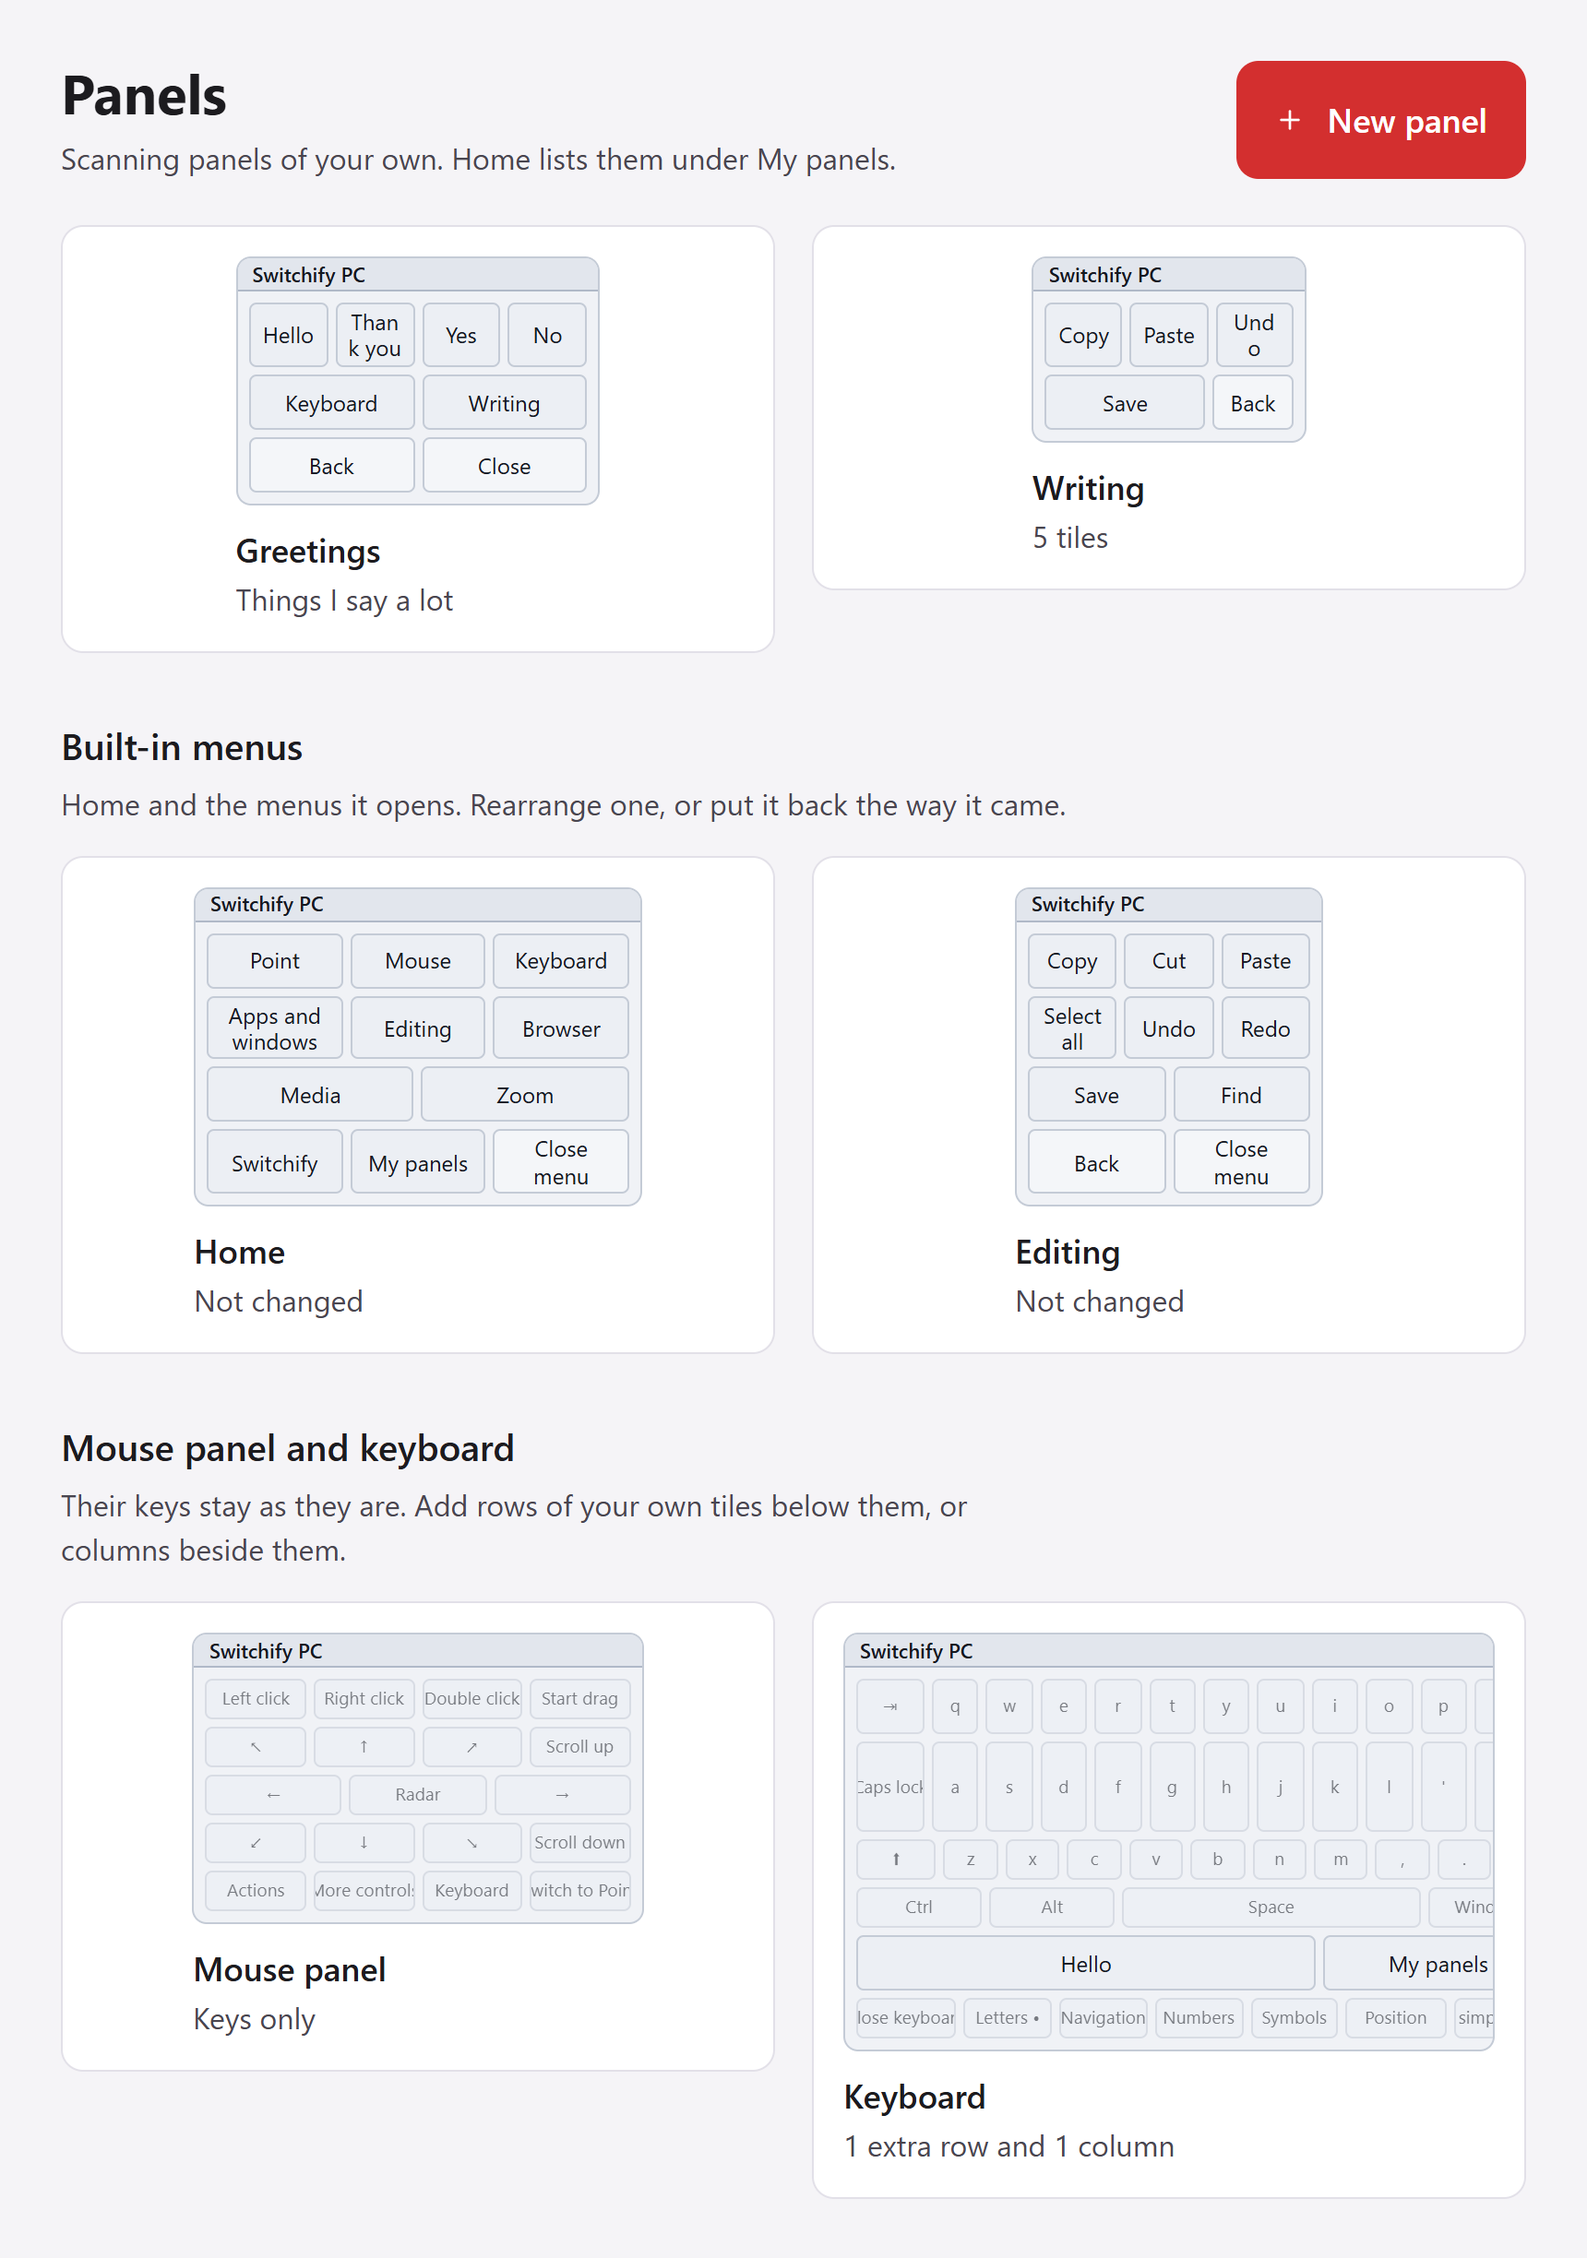
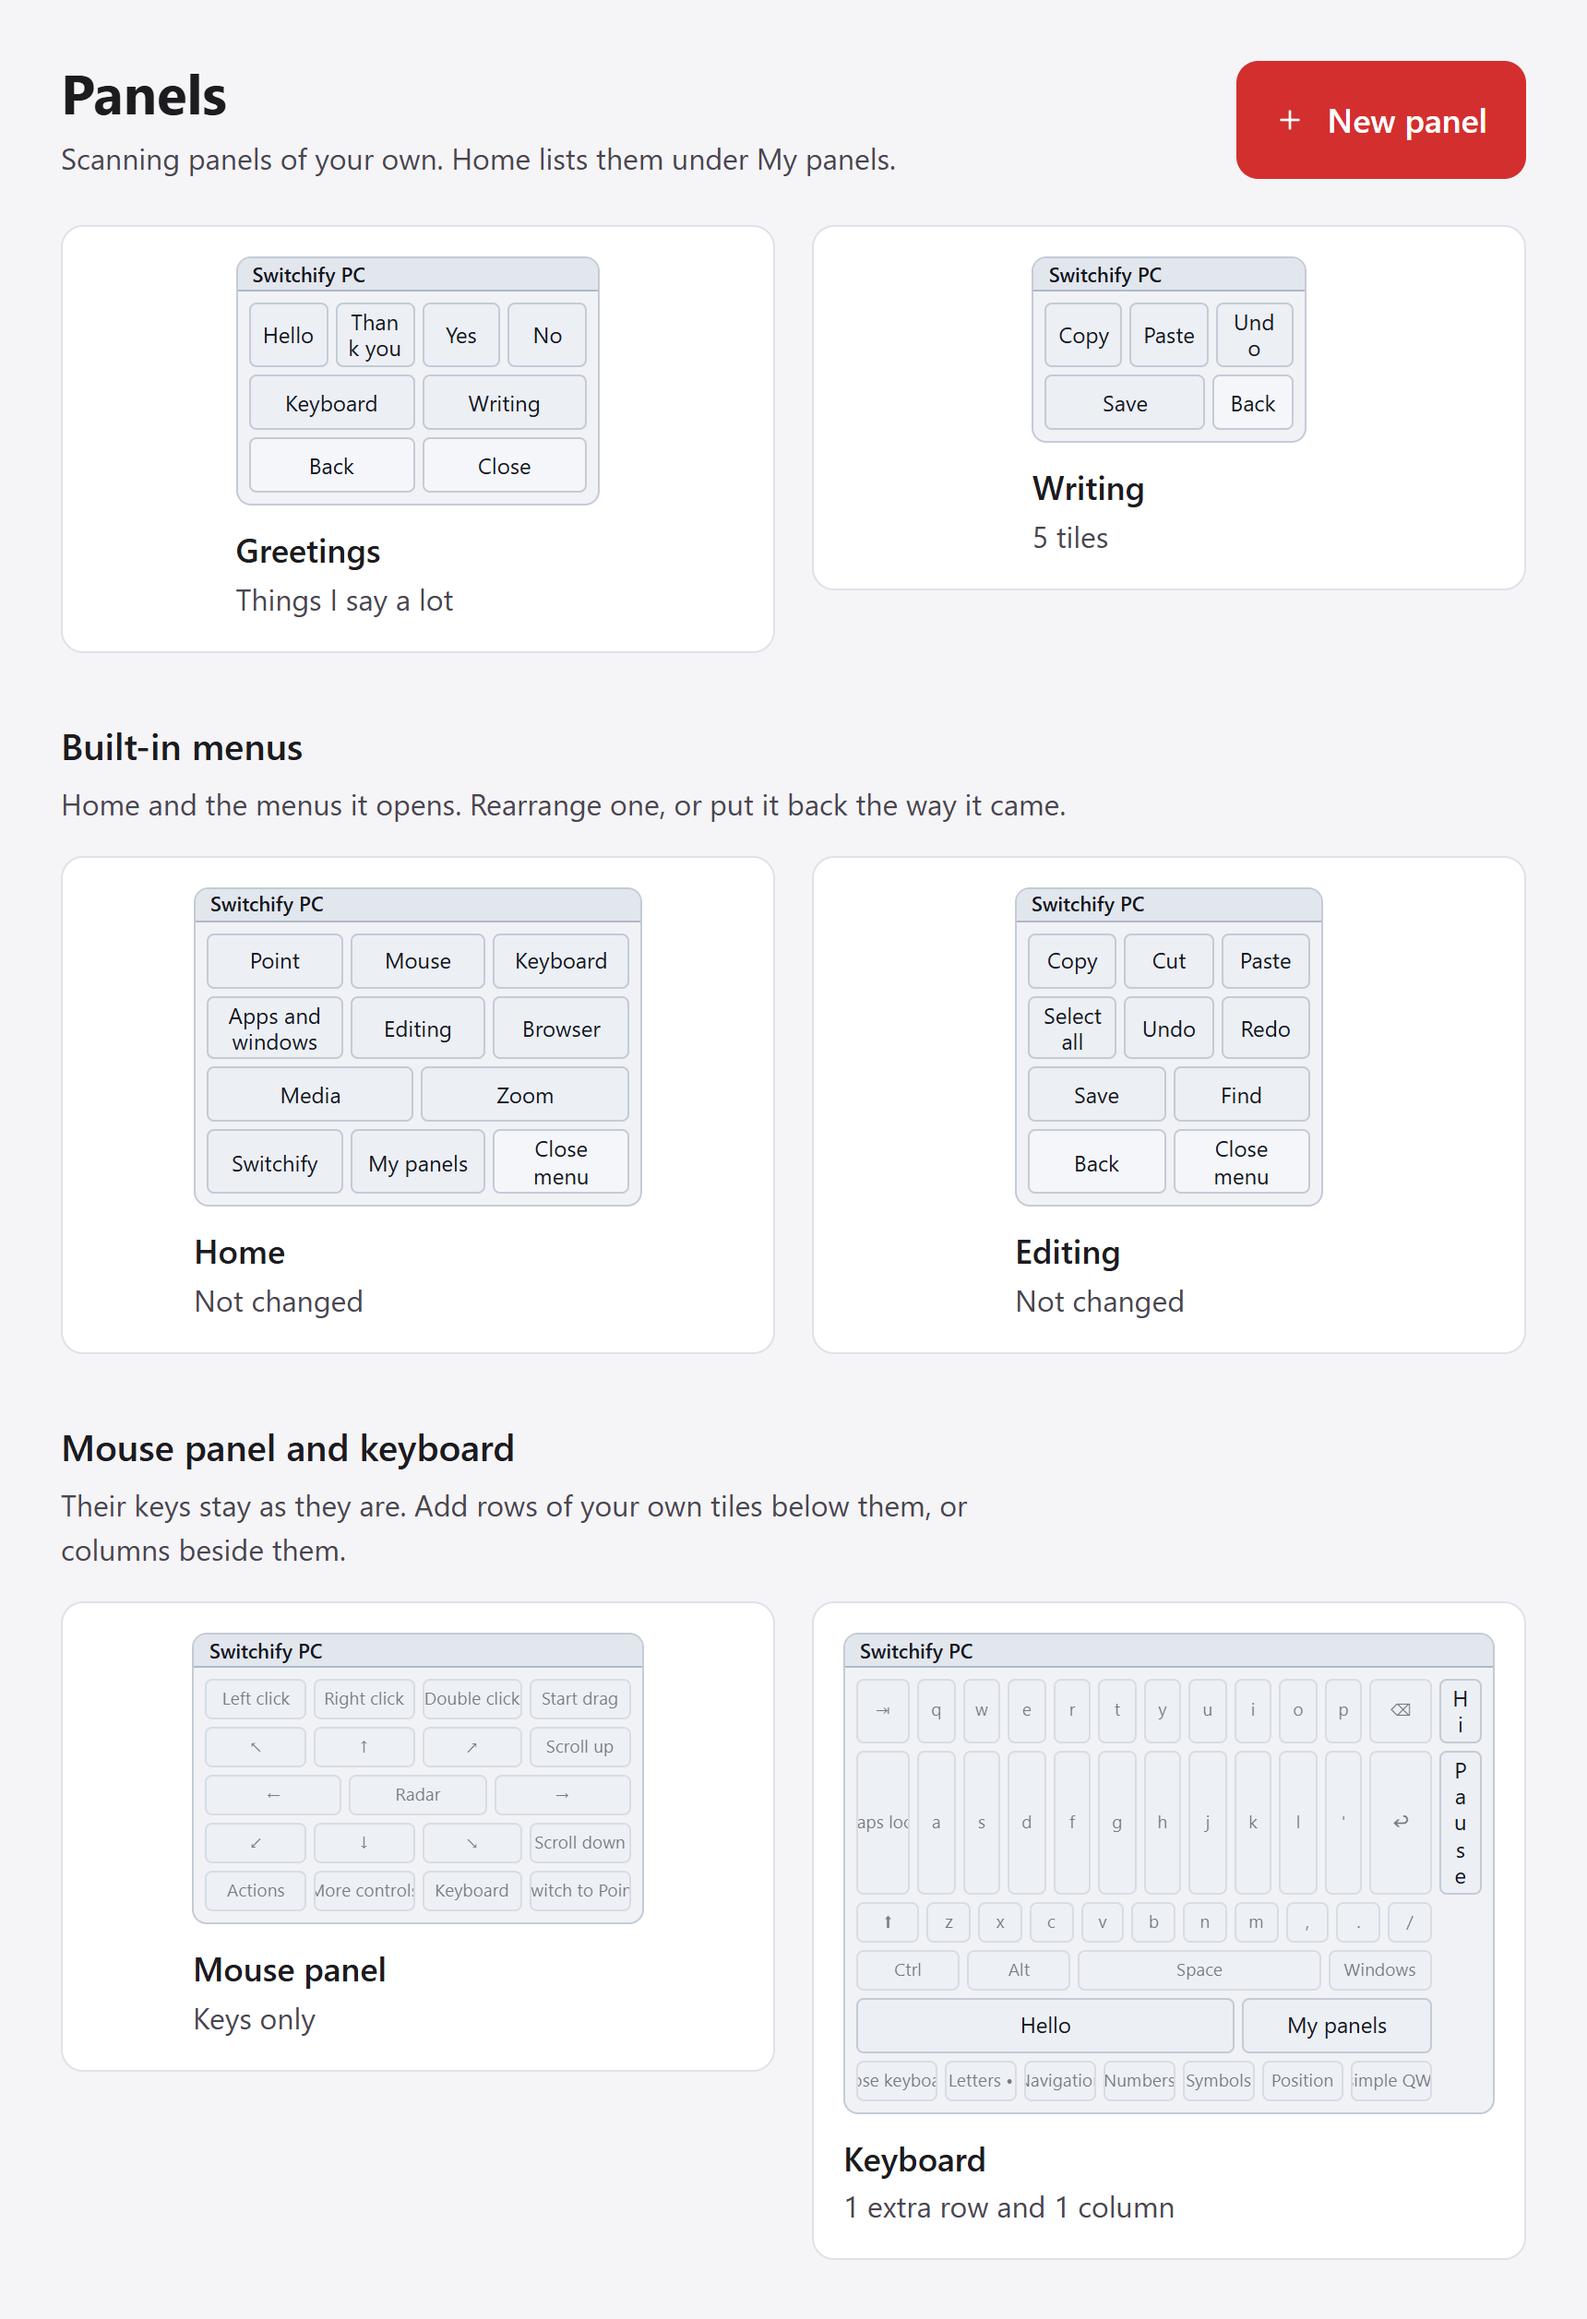
Keep card pictures within their width

diff --git a/src/ui/app.css b/src/ui/app.css
@@ -290,7 +290,8 @@ main { min-width: 0; }
 .panel-picture-slot { display: flex; min-width: 0; }
 .panel-picture-slot > * { flex: 1 1 0; min-width: 0; }
 /* The editing picture: each line is the drawn row plus its tools beside it. */
-.panel-picture-editing .panel-picture-line { display: grid; grid-template-columns: minmax(0, 1fr) auto; gap: 8px; align-items: center; }
+.panel-picture-line { display: grid; grid-template-columns: minmax(0, 1fr); }
+.panel-picture-editing .panel-picture-line { grid-template-columns: minmax(0, 1fr) auto; gap: 8px; align-items: center; }
 .panel-picture-editing .panel-picture-tools { display: flex; flex-wrap: nowrap; gap: 2px; width: 136px; }
 .panel-picture-editing .panel-picture-tools .btn, .panel-picture-column-tools .btn { width: 32px; height: 32px; min-width: 0; min-height: 0; padding: 0; color: inherit; }
 .panel-picture-editing .btn.panel-editor-tile { overflow: hidden; overflow-wrap: anywhere; }
